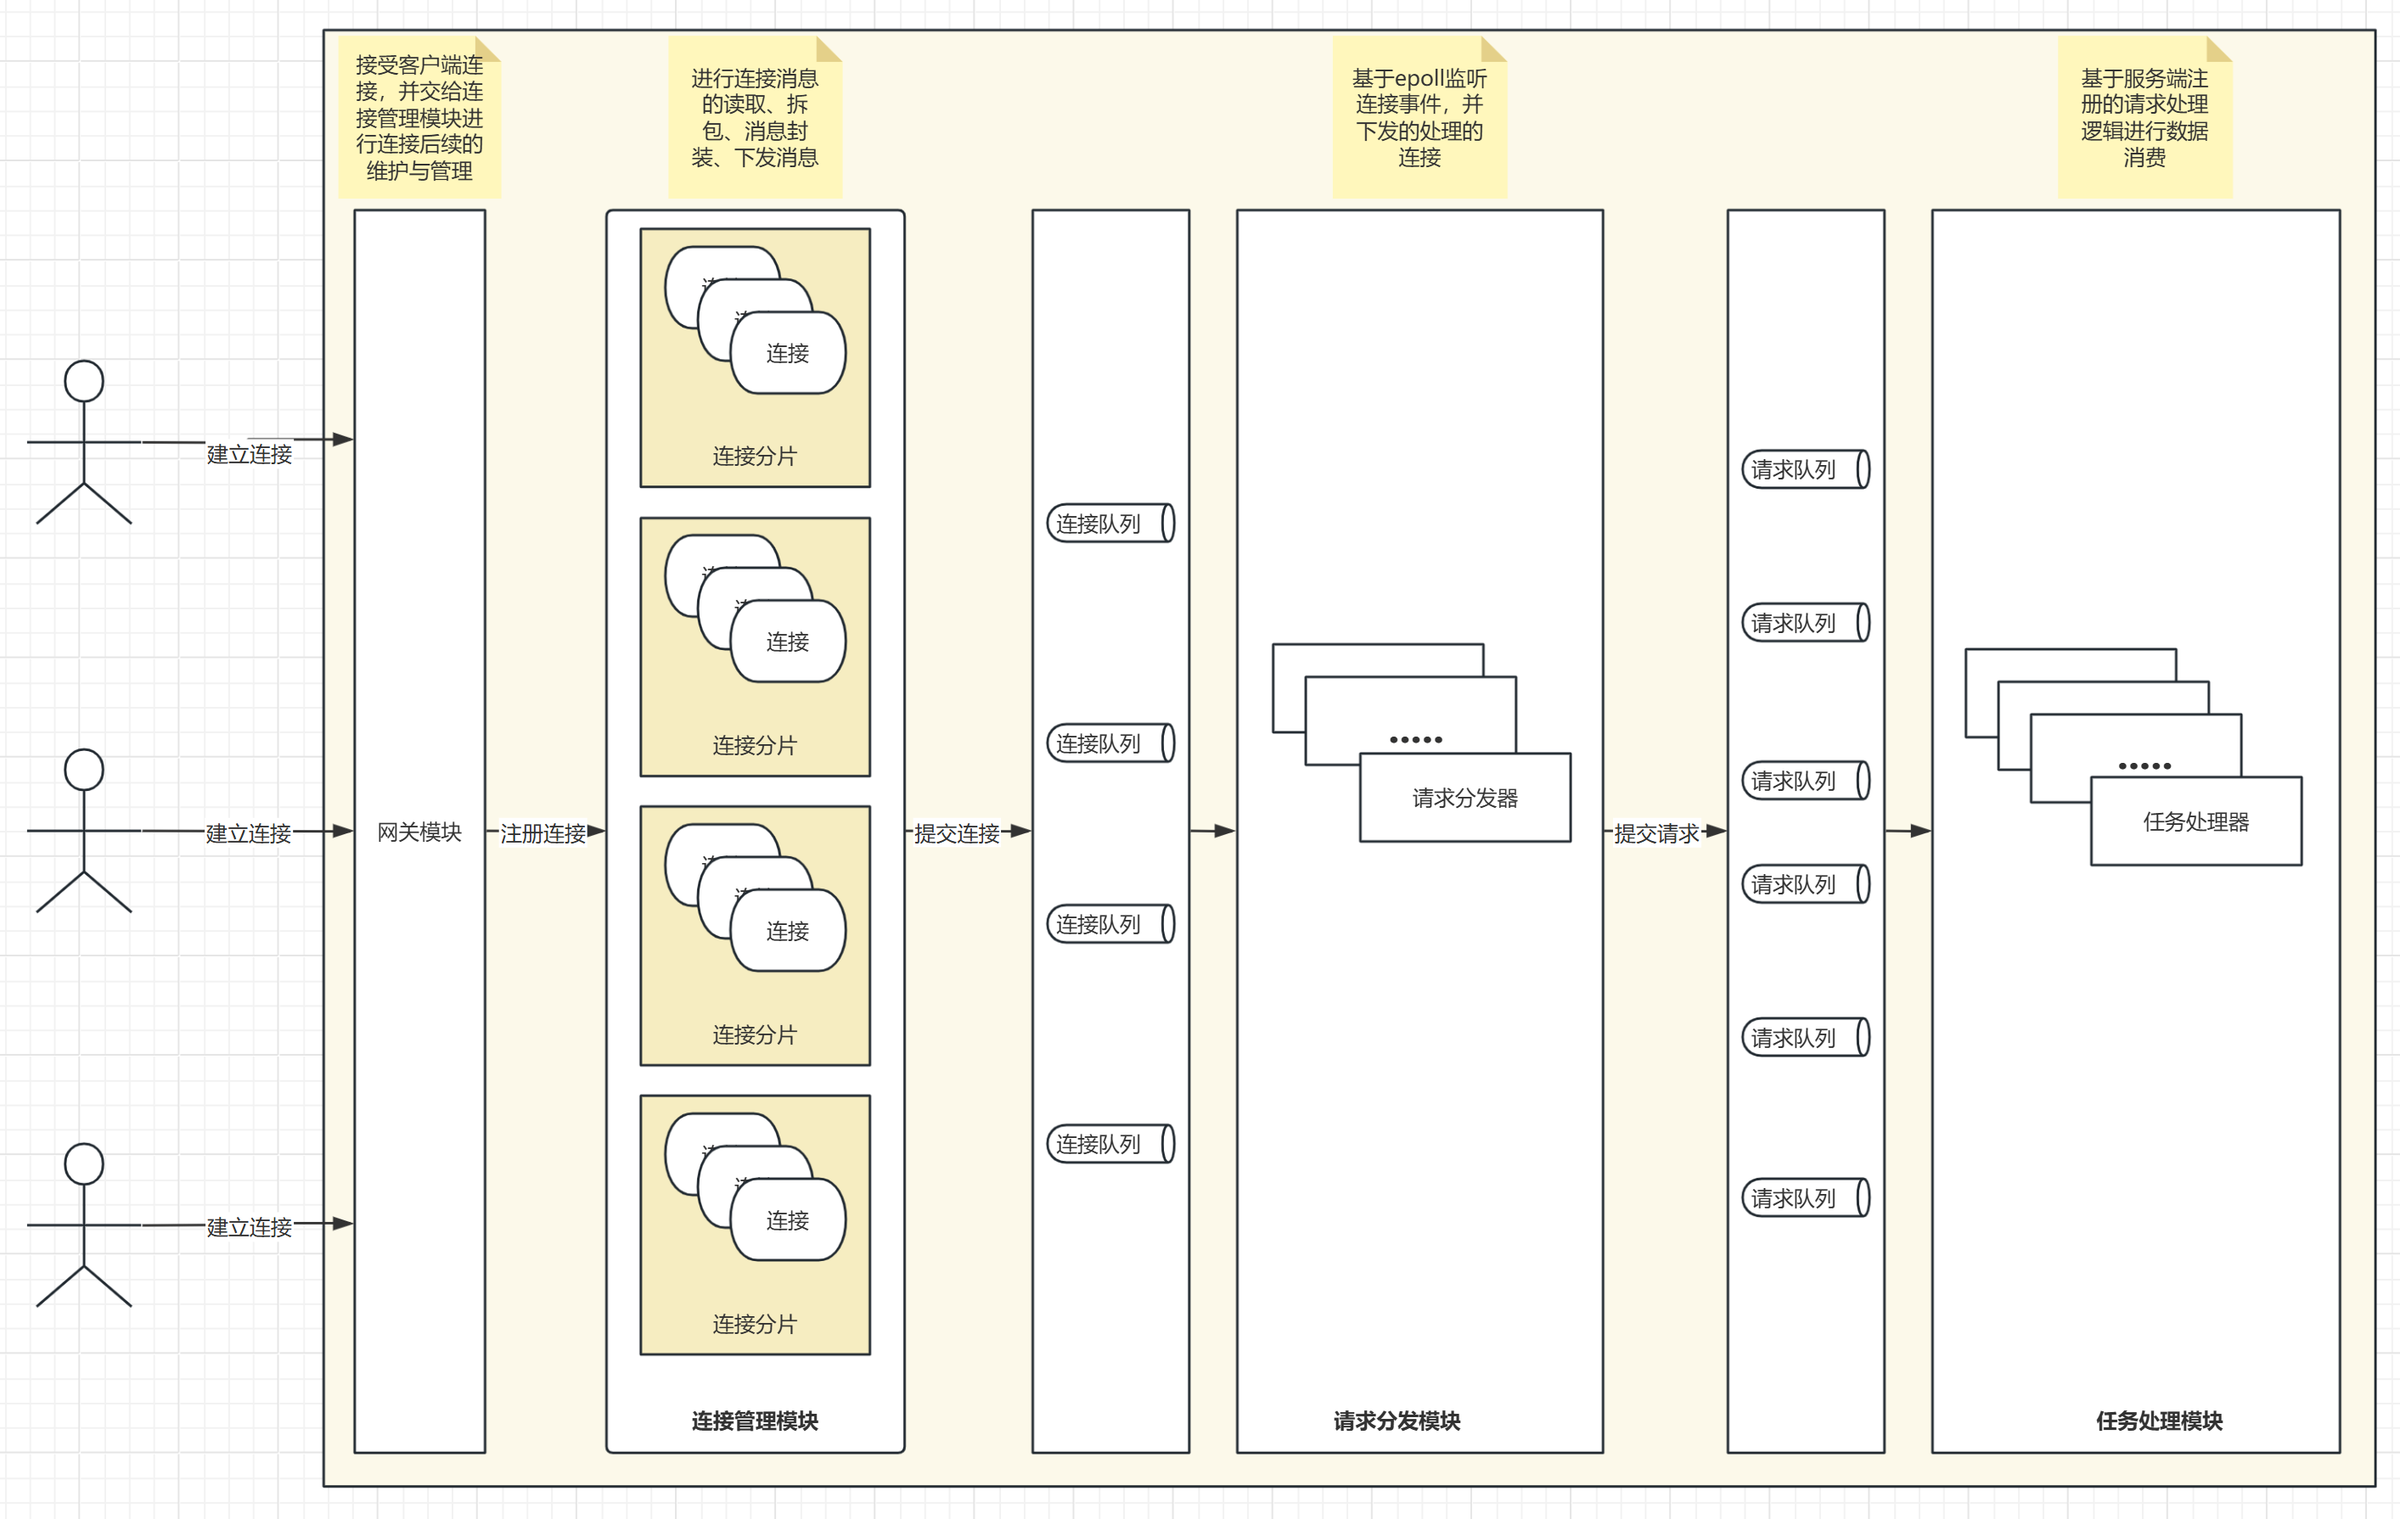
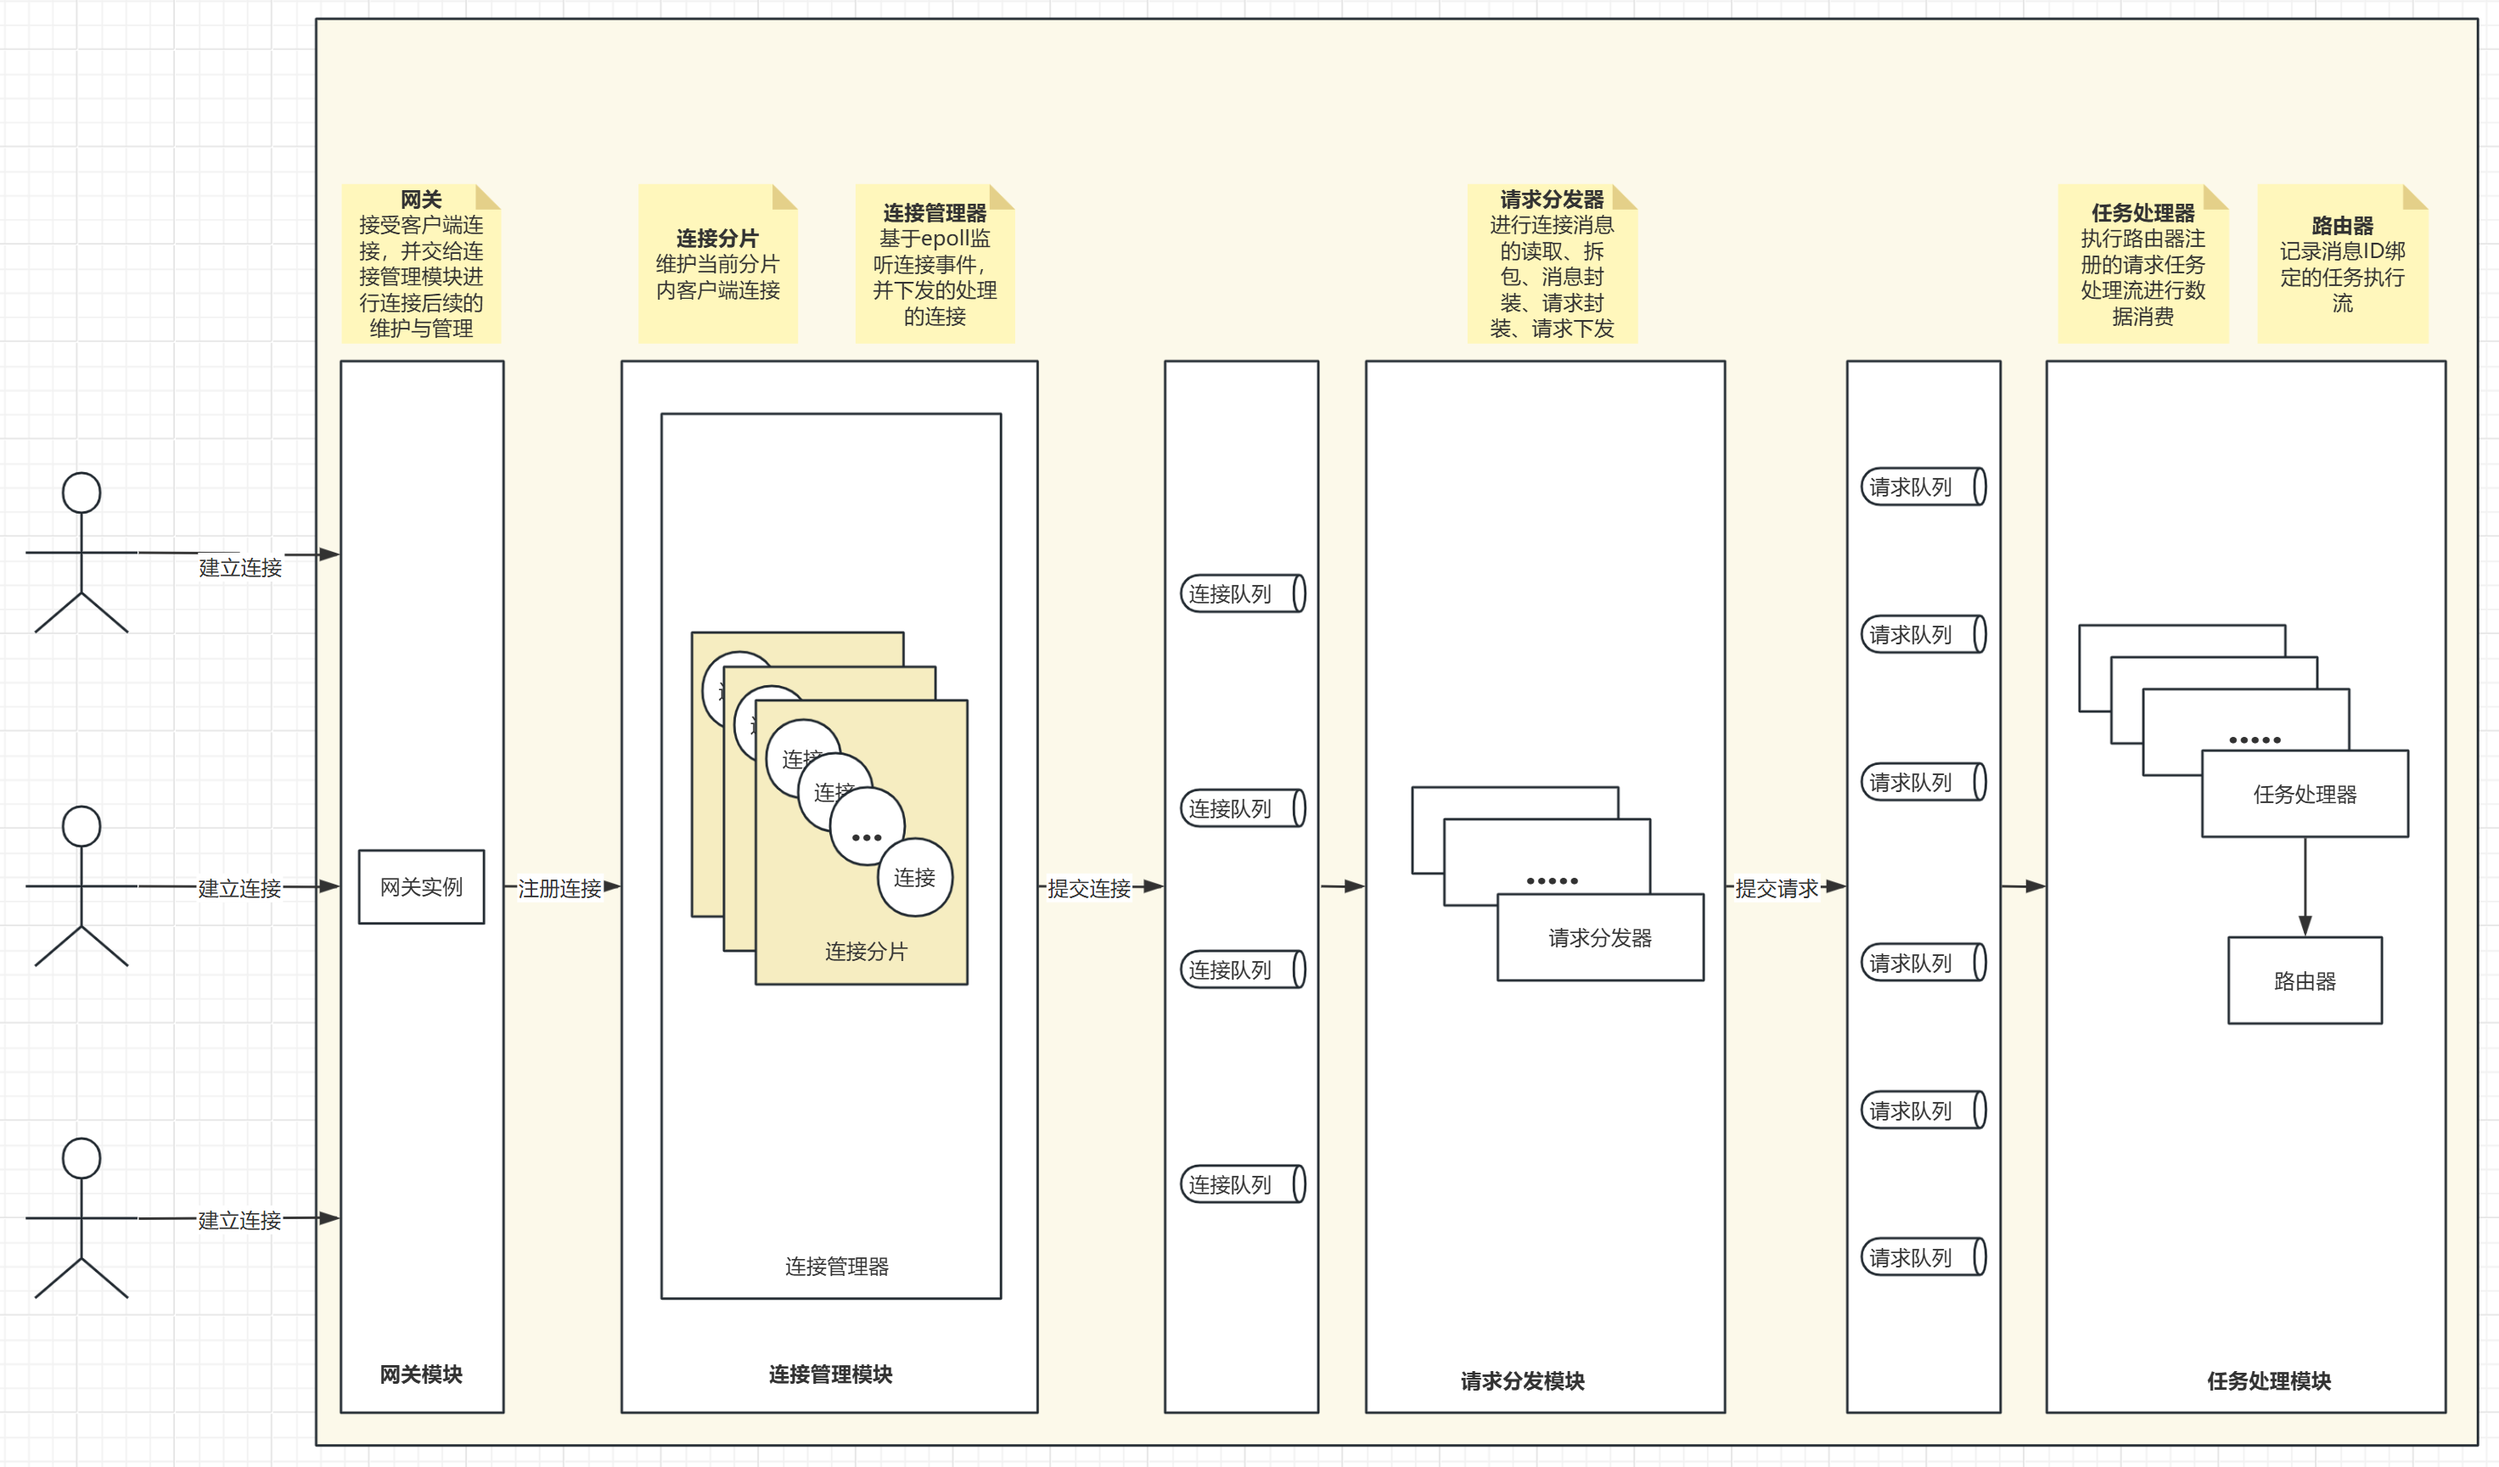
完善readme

Changed region(s): [[0.0311, 0.0, 0.9961, 1.0], [0.9027, 0.625, 0.9339, 0.6875]]

diff --git a/README.md b/README.md
@@ -5,6 +5,7 @@ GTE is a lightweight concurrent server framework based on Go language and epoll.
 GTE 是一个基于Go语言和epoll实现的轻量级并发服务器框架。
 
 ## 关键特性
+
 - 轻量级：基于epoll实现，占用资源少，适合高并发场景。
 - 长连接：支持长连接，支持客户端主动断开连接。
 - 并发：支持多路复用，数据解析与分发和业务逻辑采用多副本并发处理。
@@ -14,11 +15,22 @@ GTE 是一个基于Go语言和epoll实现的轻量级并发服务器框架。
 - 路由分组：支持路由分组，可以方便的管理和拓展路由。
 - 扩展性：支持插件注册，支持路由分组，可以方便的扩展功能。
 
-## 架构
+## 设计
 
-消息处理流程：  
+对客户端连接进行管理与维护，基于epoll完成连接事件的监听，然后进行连接事件的处理（读取连接数据，解析连接数据，数据的业务处理）
+
+提供网关模块、连接管理模块、请求分发模块，任务处理模块
+
+- 网关模块接受客户端连接，并交给连接管理模块进行连接后续的维护与管理
+- 连接管理模块进行客户端连接的管理，并通过epoll监听连接的事件，将事件发送到队列中提交给请求分发模块进行处理
+- 请求分发模块接收连接队列中的连接，并进行读取数据、数据拆包、请求封装等操作，然后将请求提交到请求队列
+- 任务处理模块接收请求队列中的请求，并基于请求中的消息ID执行对应服务端注册的任务处理流，来消费请求，完成业务处理
+
+## 消息处理流程
 - 接收消息：gte框架通过epoll监听连接，将待读取数据的连接放入分发队列中，请求分发模块从分发队列中取出连接，并进行读取数据、数据拆包、请求封装等操作，然后将请求提交给请求队列。
 - 处理消息：gte框架的任务处理模块从任务处理队列中取出请求，并基于请求中的消息ID执行对应服务端注册的任务处理流，来消费请求，完成业务处理。
 - 发送消息：任务执行流在请求的处理过程中，可以选择性的基于底层的长连接进行数据的回写。
+
+## 架构
 
 ![arch](/docs/gte_arch.png)
